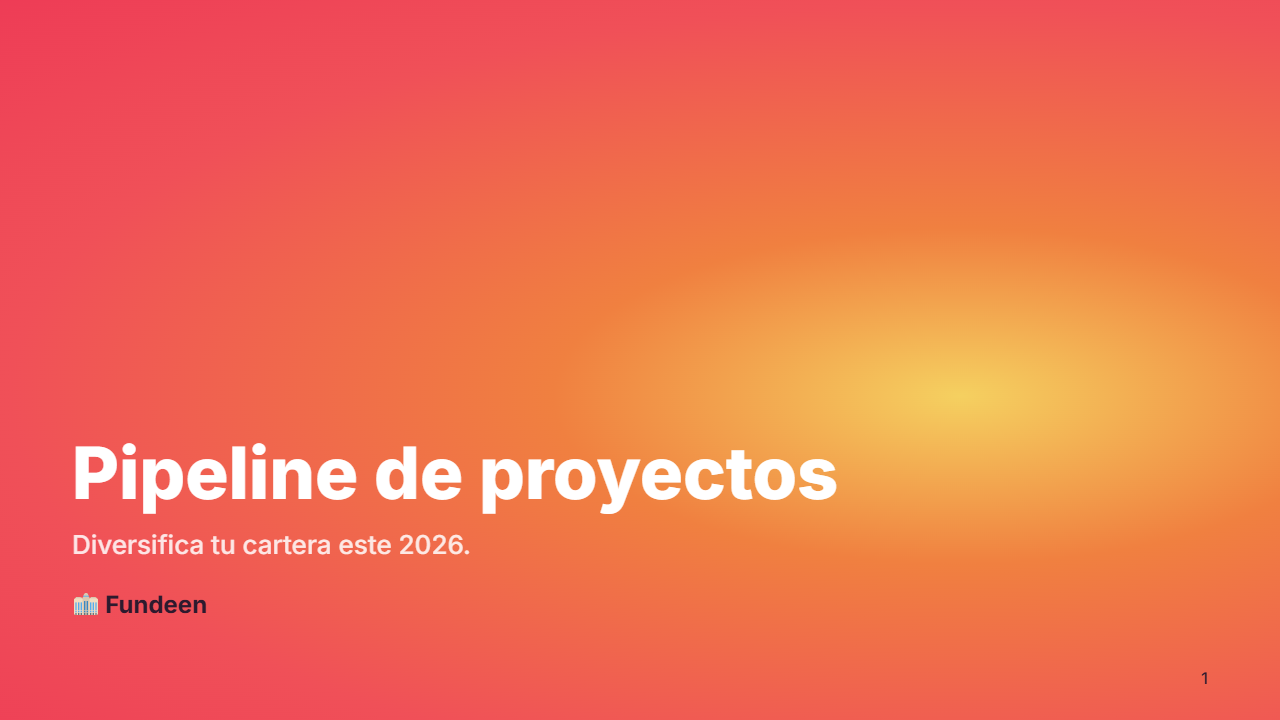
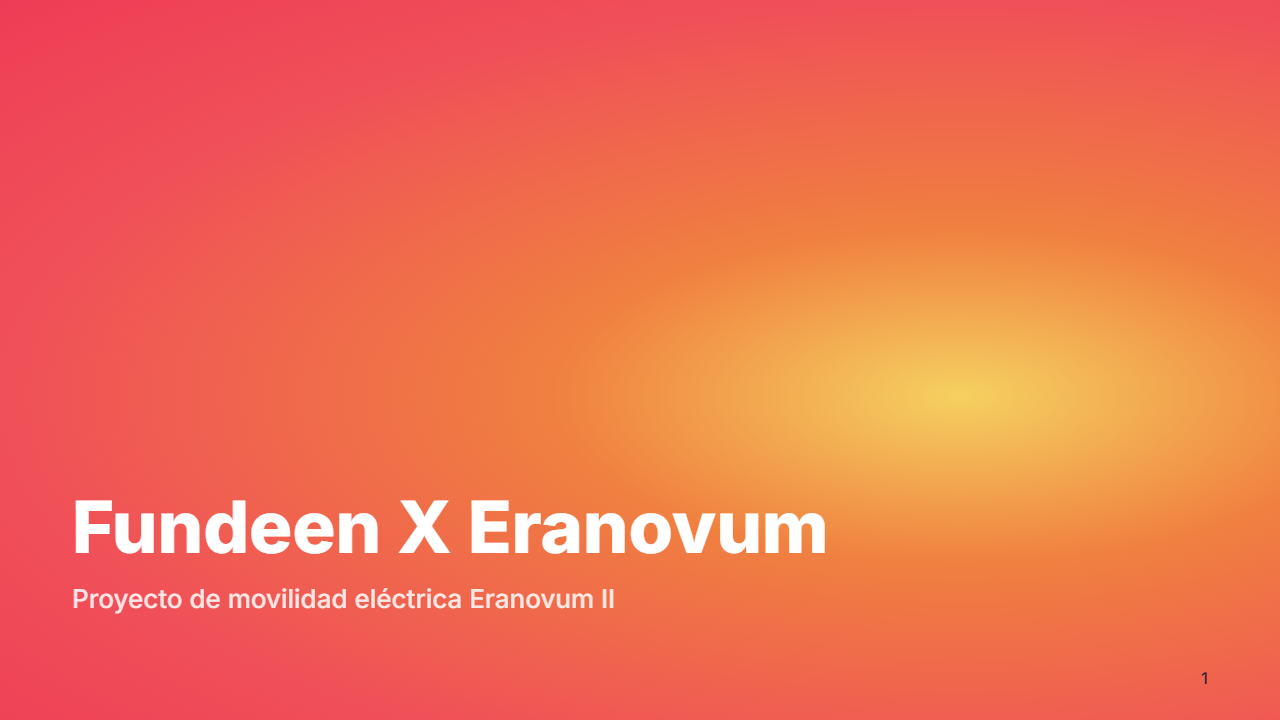
docs: real Fundeen presentation as example

Changed region(s): [[0.0312, 0.6111, 0.6562, 0.7944], [0.0312, 0.825, 0.5, 0.8556]]

diff --git a/example.md b/example.md
@@ -6,11 +6,9 @@ paginate: true
 
 <!-- _class: title -->
 
-# Pipeline de proyectos
+# Fundeen X Eranovum
 
-## Diversifica tu cartera este 2026.
-
-**🏢 Fundeen**
+## Proyecto de movilidad eléctrica Eranovum II
 
 ---
 
@@ -18,95 +16,151 @@ paginate: true
 
 ### Índice
 
-# 01 Por qué Fundeen
+# 01 Contexto
 
-## 02 Proyectos disponibles
+## 02 El proyecto
 
-## 03 Cómo participar
+## 03 Estrategia
 
-## 04 Preguntas frecuentes
+## 04 Plan de acción
 
 ---
 
 <!-- _class: section -->
 
-# Por qué Fundeen
+# Contexto
 
-## Coinversión responsable, accesible a cualquier persona
+## La movilidad eléctrica ya es una realidad en España
 
 ---
 
-# Sigue diversificando con Fundeen
+# La movilidad eléctrica en España
 
-En Fundeen puedes construir una cartera diversificada en transición energética con oportunidades recurrentes.
+En 2025, España registró más de 225.000 turismos electrificados vendidos, consolidando al país como uno de los líderes europeos en transición hacia la movilidad sostenible.
 
-- Diversificación real por tecnología: solar, movilidad eléctrica y soluciones climáticas
-- Rigor y trazabilidad: proyectos seleccionados y estructurados
-- Continuidad de pipeline: nuevas oportunidades de forma recurrente
+- Políticas públicas consistentes e incentivos fiscales robustos
+- Objetivos de descarbonización de la UE que aceleran la transformación
+- Programa MOVES III con recursos para infraestructura de recarga
 
 ---
 
 <!-- _class: accent -->
 
-> «Fundeen me aportó la confianza y el valor que un inversor necesita, en los buenos y en los malos momentos»
+# El cuello de botella
 
-**Pablo Gámez**, coinversor
+Madrid, Barcelona, Valencia lideran la adopción de vehículos eléctricos. Sin embargo, **la infraestructura de recarga sigue siendo insuficiente** para sostener este crecimiento.
+
+- Infraestructura como limitación real, no tecnológica
+- Necesidad de inversión privada complementaria a la pública
+- Oportunidad para modelos eficientes y ya operativos
 
 ---
 
 <!-- _class: section -->
 
-# Proyectos disponibles
+# El proyecto
 
-## Oportunidades activas en 2026
+## Una realidad operativa, no una promesa
 
 ---
 
 <!-- _class: cols -->
 
-# Proyectos en los que participar
+# ¿Qué es Eranovum II?
 
-## Argos-Nágima CO₂
+## Lo tangible
 
-Proyecto de absorción de CO2 mediante reforestación.
+304 puntos de carga en **9 comunidades autónomas**.
 
-- Inversión en **equity**
-- Importe: **527.000 €**
-- Rentabilidad: **8,0% TIR**
-- Plazo: 50 años con opciones de salida
-- Dividendos anuales
+243 ya operativos generando ingresos reales hoy.
 
-## Eranovum II — Movilidad
+Madrid (149) · Andalucía (64) · Cataluña (38)…
 
-Portfolio de 304 puntos de recarga de vehículos eléctricos.
+## Lo validado
 
-- Inversión vía **préstamo**
-- Importe: **1.450.000 €**
-- Rentabilidad: **9,25% TIR**
-- Plazo: 5 años
-- Intereses bimestrales
+Subvenciones MOVES III: **1.109.473 €**
+
+Experiencia previa exitosa en proyecto anterior.
+
+Modelo financiero validado por expertos independientes.
 
 ---
 
 <!-- _class: light -->
 
-# Características comparadas
+# Características financieras
 
-| Proyecto       | Tipo      | Importe     | Rentabilidad | Plazo   |
-|----------------|-----------|-------------|--------------|---------|
-| Argos-Nágima   | Equity    | 527.000 €   | 8,0% TIR     | 50 años |
-| Eranovum II    | Préstamo  | 1.450.000 € | 9,25% TIR    | 5 años  |
+| Concepto | Detalle |
+|---|---|
+| Tipo de inversión | Préstamo |
+| Financiación objetivo | 1.450.000 € |
+| Rentabilidad | **9,25% TIR · 46,92% ROI** |
+| Plazo | 5 años |
+| Intereses | Bimestrales |
+| Amortización | A la finalización del préstamo |
+| Garantías | Parcialmente garantizado sobre activos del proyecto |
 
 ---
 
-<!-- _class: lead -->
+<!-- _class: section -->
 
-# La coinversión responsable accesible a cualquier persona
+# Estrategia
+
+## Enfoque narrativo, no comercial
+
+---
+
+# Enfoque estratégico
+
+Convertir el uso cotidiano del coche eléctrico en una **oportunidad de inversión natural y accesible**.
+
+- **Transición energética** como marco estructural — el cambio ya está ocurriendo
+- **Infraestructura** como activo estratégico — desfase real entre vehículos y puntos de carga
+- **Modelo operativo probado** — puntos ya operativos y generando ingresos
+- **Inversión ciudadana** — rentabilidad atractiva y democratización del acceso
+
+---
+
+<!-- _class: section -->
+
+# Plan de acción
+
+## Tres palancas de comunicación
+
+---
+
+<!-- _class: cols -->
+
+# Plan de acción
+
+## Landing del proyecto
+
+Página exclusiva con un CTA destacado, que asegura que el mensaje que el usuario vio en META o Google Ads coincida con lo que encuentra al hacer clic.
+
+Optimizada para confianza y ratio de conversión.
+
+## Email marketing
+
+Estrategia segmentada por fase del funnel de inversión.
+
+Primera fase: segmentación por **localización geográfica**, buscando inversores cerca de los puntos de recarga.
+
+---
+
+# Social media
+
+Difusión del proyecto en redes sociales con:
+
+- Video de lanzamiento **conceptual** — "El futuro no se espera. Se conduce."
+- Videos **educativos** sobre la necesidad de puntos de recarga
+- Contenido que explica cómo se generan los beneficios
+
+Objetivo: crear visibilidad, comunicar beneficios y dar seguridad al usuario para la inversión.
 
 ---
 
 <!-- _class: end -->
 
-# ¡Gracias!
+# Conduce el cambio
 
-¿Alguna duda? soporte@fundeen.com
+El futuro no se espera. Se conduce.
